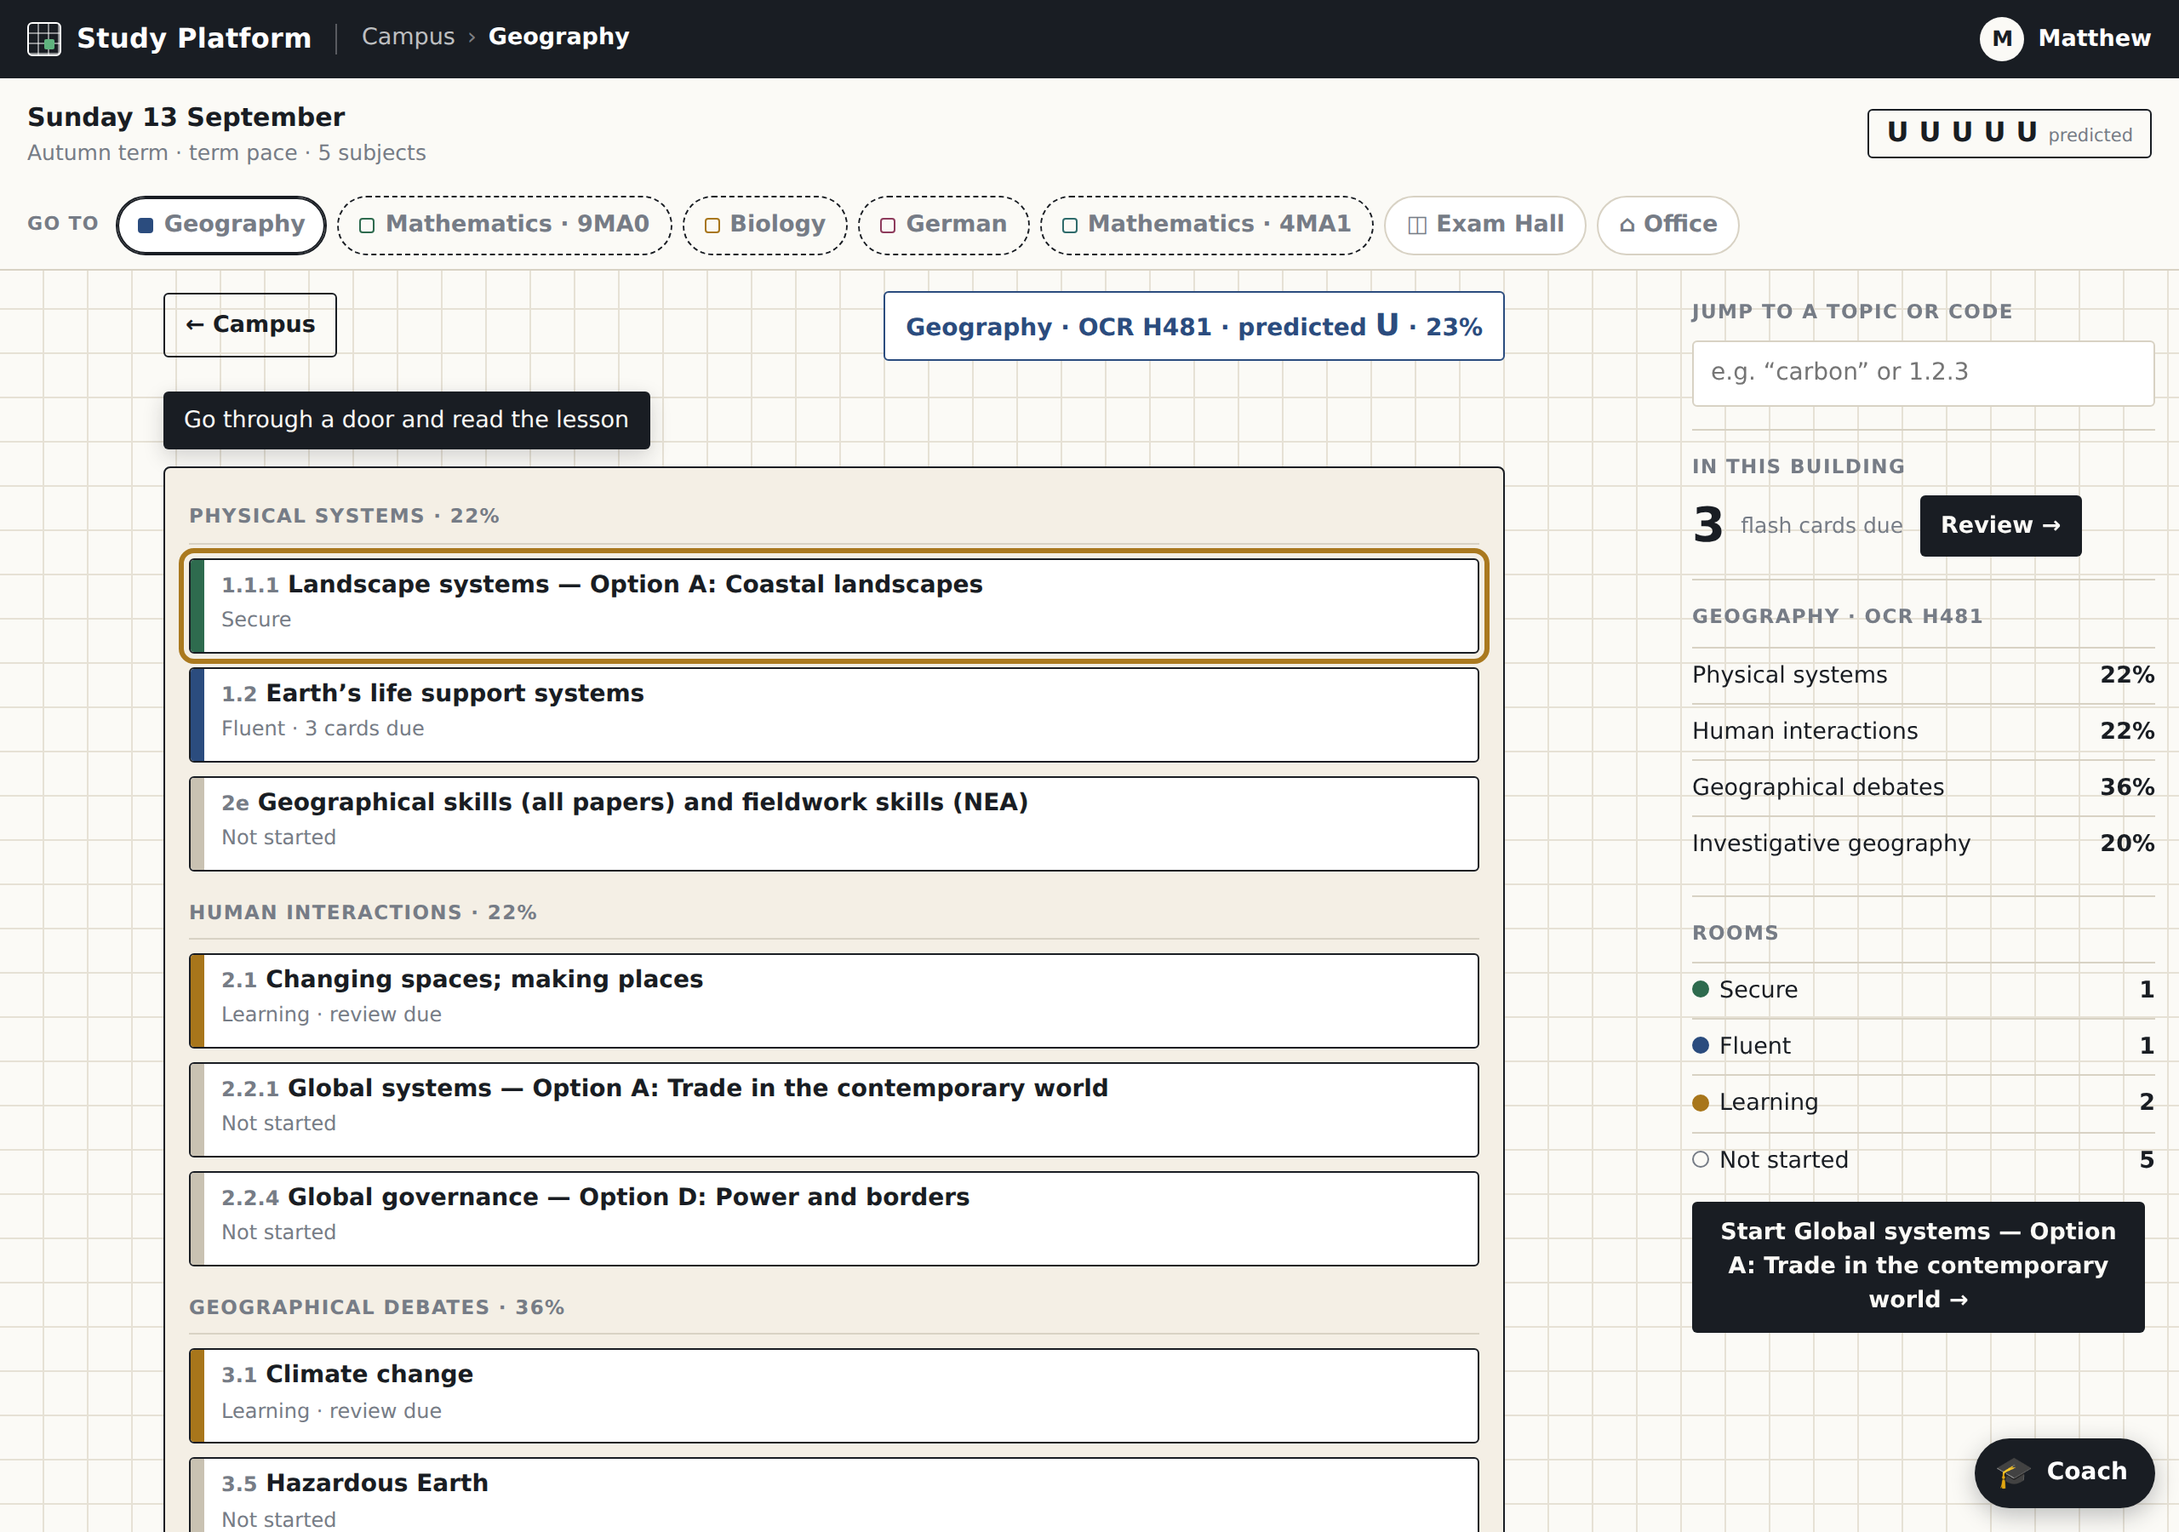
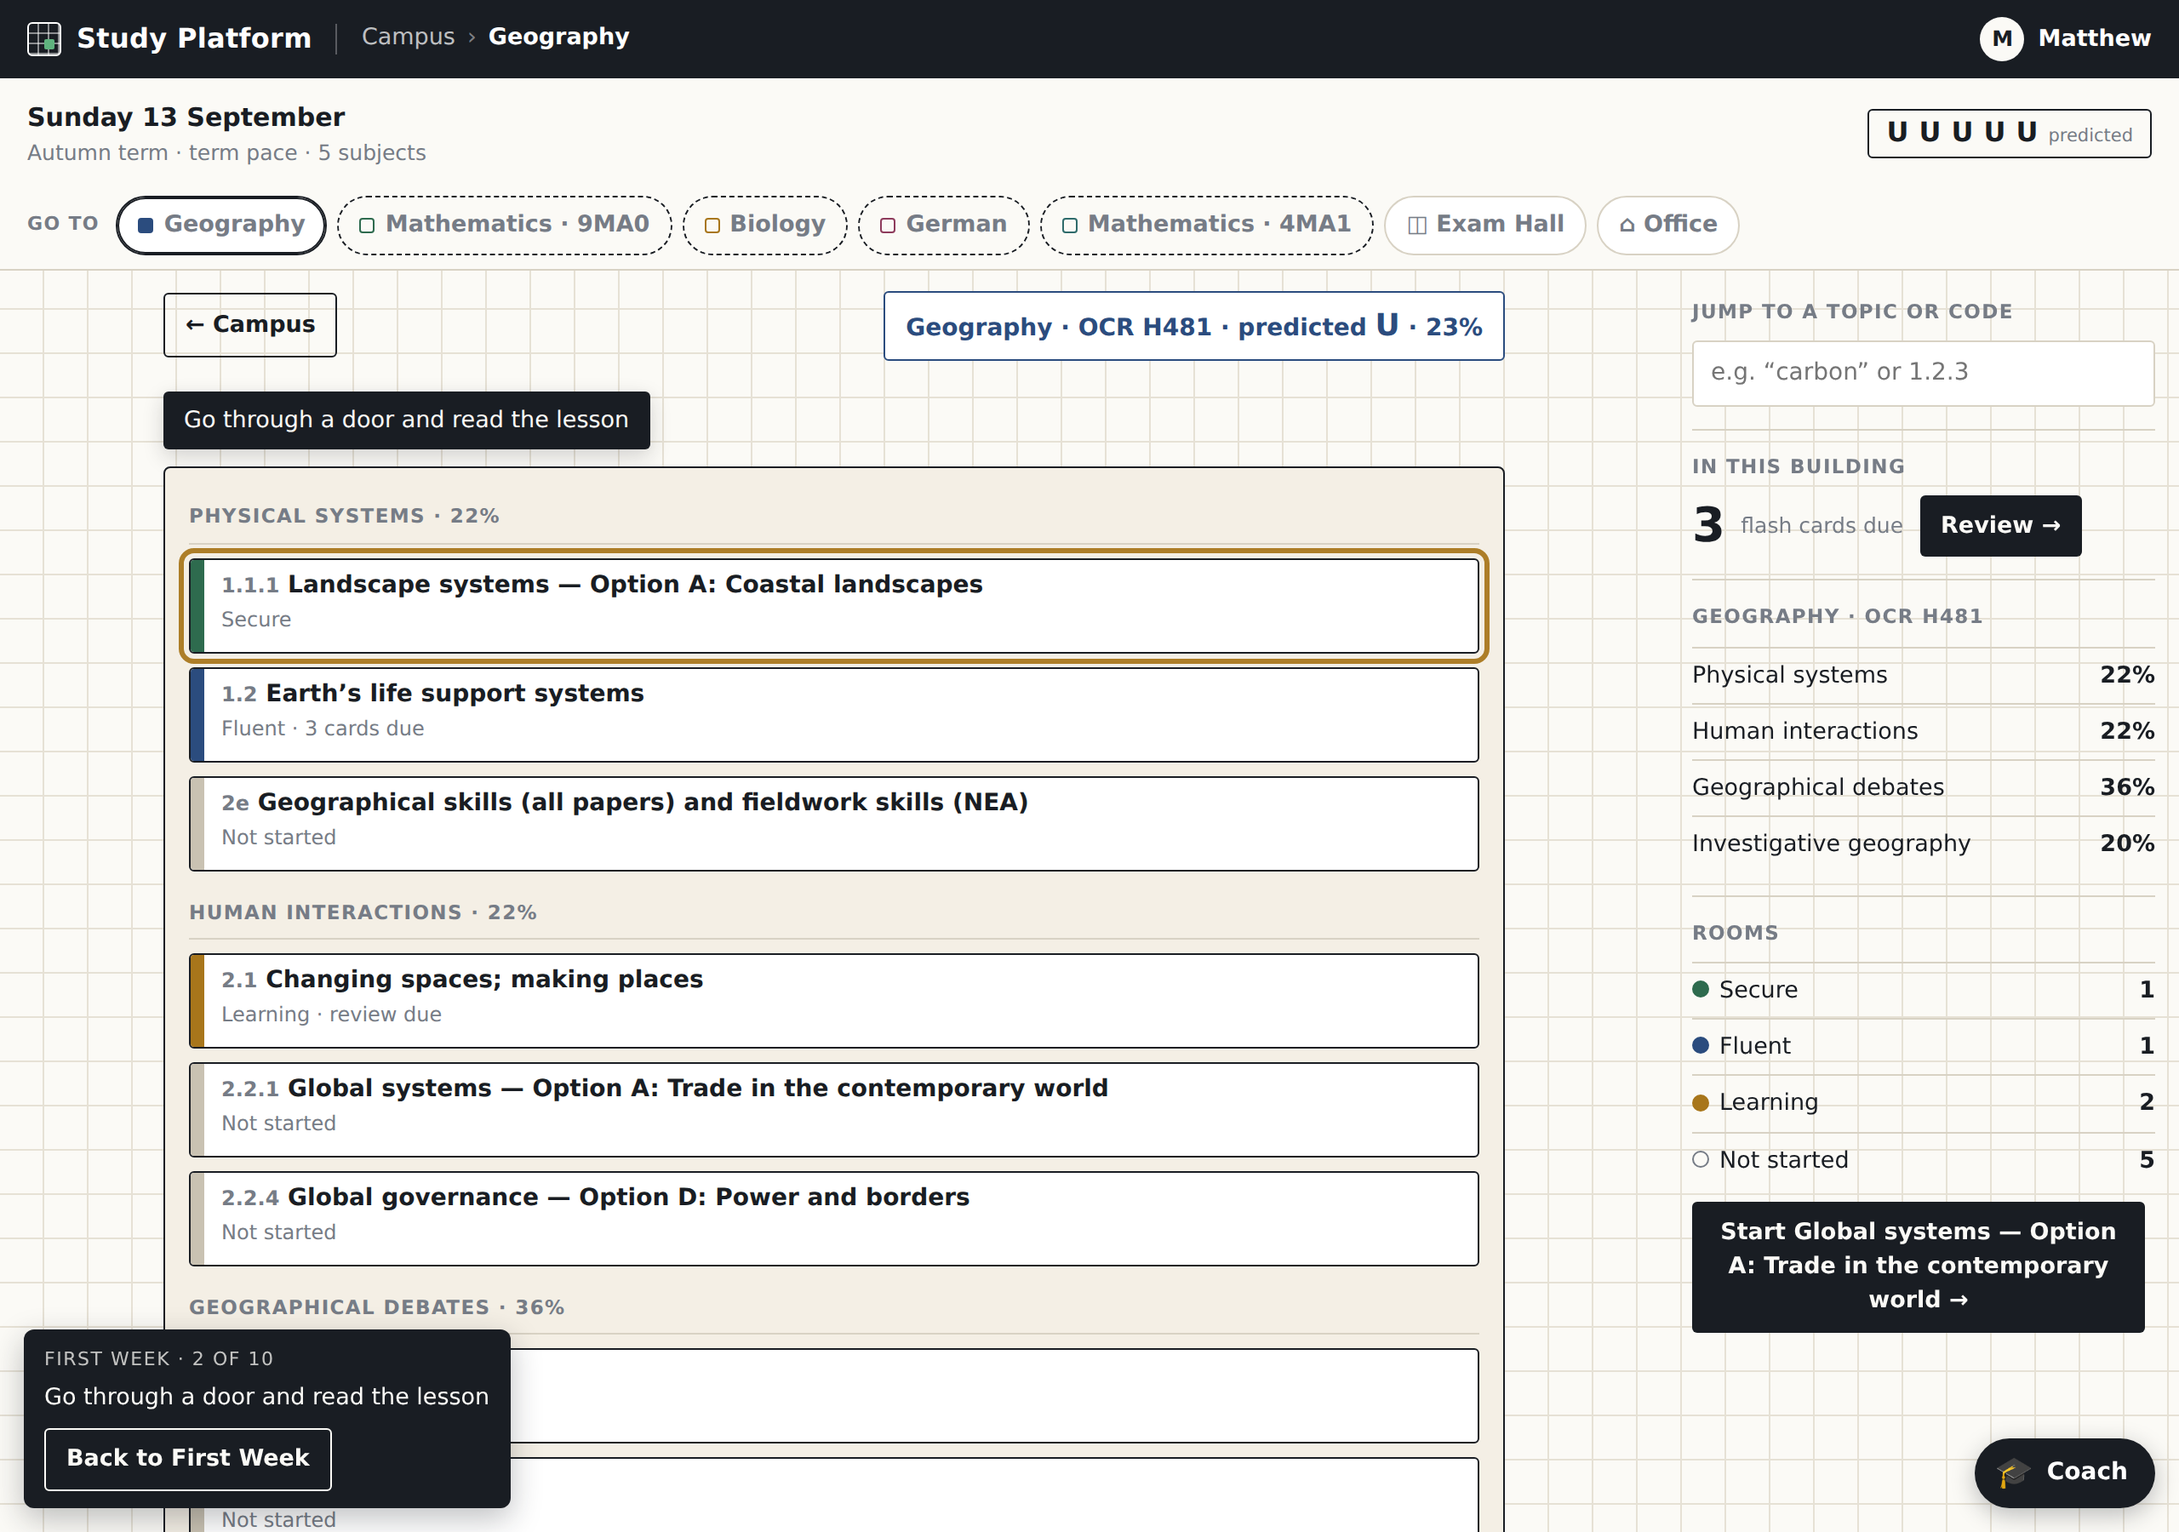
First week: a floating bar leads the student on and back
Show me now scrolls the spotlit thing into view and puts the cursor in
it when it is a box, so a step whose target sits below the fold (the
caretaker's box on a tablet) visibly reacts. A floating bar at the
bottom left stays up while a Show me is in progress: the step and its
line, then Done with the next step's own Show me, and always Back to
First Week, which returns to the card on the notice board.

Claude-Session: https://claude.ai/code/session_01Mh9bnPxQr2jGMgGjiwAVje

Changed region(s): [[0.0, 0.84, 0.25, 0.9956]]

diff --git a/src/template.html b/src/template.html
@@ -23,6 +23,7 @@
  </main>
  <aside class="wall hide" id="wall" aria-label="On the wall"></aside>
 </div>
+<div id="tourBack" class="tourbar hide" role="status" aria-live="polite"></div>
 <button id="coachFab" class="fab hide" type="button" aria-haspopup="dialog" aria-expanded="false" aria-controls="coachPanel"></button>
 <aside id="coachPanel" class="cpanel hide" role="dialog" aria-label="Coach" aria-modal="false"></aside>
 <div id="prompt" class="prompt hide" role="status" aria-live="polite"></div>
@@ -461,7 +462,7 @@ function tourStep(k){return TOUR_STEPS.find(x=>x.key===k);}
 function tourLine(k){const T=tour();return (T&&T.lines&&T.lines[k])||tourStep(k).text;}
 function tourDone(){const T=tour();return T?TOUR_STEPS.filter(x=>T.done[x.key]).length:0;}
 function tourNext(){const T=tour();return T?TOUR_STEPS.find(x=>!T.done[x.key])||null:null;}
-function tourTick(k){const T=tour();if(!tourActive()||T.done[k])return false;T.done[k]=TODAY;if(UI.spot&&UI.spot.key===k)UI.spot=null;save();return true;}
+function tourTick(k){const T=tour();if(!tourActive()||T.done[k])return false;T.done[k]=TODAY;if(UI.spot&&UI.spot.key===k)UI.spot=null;save();renderTourBack();return true;}
 function tourFirstRoom(){const sub=courseOrder()[0];const sp=sub&&specById(sub.specId);if(!sp)return null;const r=roomOrder(sp)[0];return r?{specId:sp.id,room:r}:null;}
 function tourNames(){return {student:S.setup.student,coach:coachName(),subjects:S.setup.subjects.map(sub=>{const sp=specById(sub.specId);if(!sp)return null;const r=roomOrder(sp)[0];const t=r?nodeTopic(r).topic:sp.topics[0];return {subject:sp.subject,short:shortName(sp),topic:(topicCode(t)?topicCode(t)+' ':'')+t.name};}).filter(Boolean)};}
 /* one small call after setup: the caretaker writes the ten lines in the student's own subjects; anything unusable keeps the fixed text */
@@ -471,7 +472,15 @@ function spotOn(k){return !!(UI.spot&&UI.spot.key===k);}
 function spotCap(k){return spotOn(k)?`<div class="spotcap" data-spotcap="${k}" role="status">${esc(tourLine(k))}</div>`:'';}
 function spotInto(html,k,marks){if(!spotOn(k))return html;for(const m of marks){if(m instanceof RegExp){const r=m.exec(html);if(r)return html.slice(0,r.index+r[0].length)+' data-spot="1"'+html.slice(r.index+r[0].length);continue;}const i=html.indexOf(m);if(i>=0)return html.slice(0,i)+m+' data-spot="1"'+html.slice(i+m.length);}return html;}
 function spotCheck(){const p=UI.spot;if(!p)return;if(view!==p.view||(p.corridor&&UI.room)||(p.room&&UI.room!==p.room)||(p.station&&UI.station!==p.station))UI.spot=null;}
-function tourShow(k){if(!tour())return;const fr=tourFirstRoom();UI.spot=null;
+/* after Show me: bring the spotlit thing on screen, and put the cursor in it if it is a box */
+function spotReveal(){setTimeout(()=>{try{const el=document.querySelector('[data-spot]');if(!el)return;if(el.scrollIntoView)el.scrollIntoView({block:'center',behavior:'smooth'});if(el.tagName==='INPUT'&&el.focus)el.focus({preventScroll:true});}catch(e){}},80);}
+/* the floating bar while a Show me is in progress: the step, then Done with the next step, and always the way back to the card */
+function renderTourBack(){const el=document.getElementById('tourBack');if(!el)return;const k=UI.tourTrail;const T=tour();if(!k||!T||T.hidden||!S||!tourStep(k)){el.classList.add('hide');el.innerHTML='';return;}
+  el.classList.remove('hide');const done=!!T.done[k];const nx=done?tourNext():null;const n=TOUR_STEPS.findIndex(x=>x.key===k)+1;
+  el.innerHTML=done?`<span class="tb-done">✓ Done</span><span class="tb-next">${nx?`Next: ${esc(tourLine(nx.key))}`:'You’ve seen everything.'}</span><div class="row tb-row">${nx?`<button class="act small" data-show="${nx.key}">Show me →</button>`:''}<button class="act ghost small" id="tourBackGo">Back to First Week</button></div>`
+  :`<span class="tb-step">First week · ${n} of ${TOUR_STEPS.length}</span><span class="tb-next">${esc(tourLine(k))}</span><div class="row tb-row"><button class="act ghost small" id="tourBackGo">Back to First Week</button></div>`;}
+function tourShow(k){if(!tour()||!tourStep(k))return;const fr=tourFirstRoom();UI.spot=null;UI.tourTrail=k;const done=tourShowGo(k,fr);renderTourBack();spotReveal();return done;}
+function tourShowGo(k,fr){
   if(k==='building'||k==='caretaker'){UI.room=null;go('campus');UI.spot={key:k,view:'campus'};renderCampus();return;}
   if(k==='lesson'){if(!fr)return;UI.subject=fr.specId;UI.room=null;go('rooms');UI.spot={key:k,view:'rooms',corridor:true};renderRooms();return;}
   if(k==='cards'||k==='question'||k==='exit'||k==='coach'){if(!fr)return;const st=k==='question'?'practise':k;openRoom(fr.room,st);UI.spot={key:k,view:'rooms',room:fr.room,station:st};renderRooms();if(k==='coach')renderCoachPanel();return;}
@@ -832,7 +841,7 @@ async function loadAdminTodo(){if(!isAdmin()||ADMIN_TODO!==null)return;ADMIN_TOD
 function wallView(){return !!S&&['rooms','exam','prog'].includes(view);}
 function statusView(){return !!S&&['campus','today','rooms','exam','prog','office'].includes(view);}
 /* the wall beside the centre: what the right rail used to carry — this room, this building, the board's conventions, the pattern */
-function renderRails(){applySupport();renderPrompt();if(UI.coachOpen)renderCoachPanel();const on=wallView();try{if(document.body&&document.body.classList)document.body.classList.toggle('wall-on',on);}catch(e){}
+function renderRails(){applySupport();renderPrompt();renderTourBack();if(UI.coachOpen)renderCoachPanel();const on=wallView();try{if(document.body&&document.body.classList)document.body.classList.toggle('wall-on',on);}catch(e){}
   const R=document.getElementById('wall');if(!R)return;
   if(!on){R.innerHTML='';R.classList.add('hide');renderStatus();return;}
   R.classList.remove('hide');renderWall(R);renderStatus();}
@@ -1238,8 +1247,9 @@ document.addEventListener('click',async e=>{let t=e.target;noteActivity();
   const bl=t.closest('[data-bldg]');if(bl){UI.subject=bl.dataset.bldg;UI.room=null;go('rooms');renderRooms();return;}
   const bv=t.closest('[data-bldg-view]');if(bv){go(bv.dataset.bldgView);if(bv.dataset.bldgView==='office')renderOffice();return;}
   {const sh=t.closest('[data-show]');if(sh){tourShow(sh.dataset.show);return;}}
-  if(t.closest('[data-tour-hide]')){S.tour.hidden=true;UI.spot=null;await save();renderCampus();return;}
-  if(t.id==='tourRestart'){const lines=S.tour&&S.tour.lines||null;S.tour=newTour();S.tour.lines=lines;UI.spot=null;UI.room=null;await save();go('campus');renderCampus();tourWrite();return;}
+  if(t.id==='tourBackGo'){UI.tourTrail=null;UI.spot=null;UI.room=null;go('campus');renderCampus();renderTourBack();setTimeout(()=>{try{const c=document.querySelector('#board [data-tour]');if(c&&c.scrollIntoView)c.scrollIntoView({block:'start',behavior:'smooth'});}catch(e){}},80);return;}
+  if(t.closest('[data-tour-hide]')){S.tour.hidden=true;UI.spot=null;UI.tourTrail=null;await save();renderCampus();renderTourBack();return;}
+  if(t.id==='tourRestart'){const lines=S.tour&&S.tour.lines||null;S.tour=newTour();S.tour.lines=lines;UI.spot=null;UI.tourTrail=null;UI.room=null;await save();go('campus');renderCampus();renderTourBack();tourWrite();return;}
   if(t.id==='backCampus'){UI.room=null;go('campus');renderCampus();return;}
   if(t.id==='askGo'){await askCaretaker(document.getElementById('askIn').value);return;}
   if(t.id==='voiceTry'){const tv=tutorVoice();const v=pickVoice();readText(`This is ${tv?tutorVoiceName(tv):v?v.name:'the voice'}. It will read the page to you, one sentence at a time.`);return;}

diff --git a/tests/app.test.js b/tests/app.test.js
@@ -160,6 +160,13 @@ const click=async s=>L.click({target:T(s)});const change=async s=>L.change({targ
  await click({dataset:{show:'coach'}});ok('W7 Show me on step 7 opens the room on the coach with the Ask button spotlit',G.view==='rooms'&&G.UI.station==='coach'&&G.UI.coachOpen===true&&/id="coachGo" data-spot="1"/.test(reg['coachPanel'].innerHTML)&&/data-spotcap="coach"/.test(reg['coachPanel'].innerHTML),reg['coachPanel'].innerHTML.slice(0,200));
  G.UI.coachOpen=false;await click({dataset:{show:'office'}});const OF=()=>reg['v-office'].innerHTML;ok('W7 Show me on step 10 opens the Office with the Support panel spotlit',G.view==='office'&&/id="supportPanel" data-spot="1"/.test(OF())&&/data-spotcap="office"/.test(OF()));
  await click({dataset:{show:'exam'}});ok('W7 Show me on step 8 opens the Exam Hall, which ticks on opening, so nothing is spotlit',G.view==='exam'&&T0().exam===G.TODAY&&!G.UI.spot);
+ /* the floating bar: the way back, and the way on */
+ const TB=()=>reg['tourBack'];G.S.tour=Object.assign(G.newTour(),{lines:G.S.tour.lines});G.UI.tourTrail=null;G.go('campus');G.renderAll();ok('W14 no bar until a Show me is pressed',TB().innerHTML==='');
+ await click({dataset:{show:'lesson'}});ok('W14 Show me raises the floating bar with the step, its line and Back to First Week',/First week · 2 of 10/.test(TB().innerHTML)&&/read the lesson/.test(TB().innerHTML)&&/id="tourBackGo"/.test(TB().innerHTML)&&!/Done/.test(TB().innerHTML)&&G.UI.tourTrail==='lesson',TB().innerHTML);
+ G.openRoom(firstGeo,'lesson');ok('W14 the tick turns the bar into Done with the next step and its own Show me',T0().lesson===G.TODAY&&/✓ Done/.test(TB().innerHTML)&&/Next: Ask the caretaker/.test(TB().innerHTML)&&/data-show="caretaker"/.test(TB().innerHTML)&&/id="tourBackGo"/.test(TB().innerHTML),TB().innerHTML);
+ await click({dataset:{show:'caretaker'}});ok('W14 Show me from the bar moves the trail on to the next step',G.view==='campus'&&G.UI.tourTrail==='caretaker'&&/id="askIn" data-spot="1"/.test(CV0())&&/First week · 3 of 10/.test(TB().innerHTML));
+ await click({id:'tourBackGo'});ok('W14 Back to First Week returns to the campus card and drops the bar',G.view==='campus'&&G.UI.tourTrail===null&&TB().innerHTML===''&&!G.UI.spot&&/data-tour="1"/.test(CV0()));
+ await click({dataset:{show:'cards'}});await click({dataset:{tourHide:'1'}});ok('W14 hiding the card drops the bar too',TB().innerHTML===''&&G.UI.tourTrail===null);G.S.tour.hidden=false;
  /* hide, restart, nudge */
  G.go('campus');G.renderCampus();await click({dataset:{tourHide:'1'}});ok('W9 ✕ hides the card',G.S.tour.hidden===true&&!/data-tour="1"/.test(CV0()));
  G.go('office');G.renderOffice();ok('W9 the Office offers Show me around',/id="tourRestart"/.test(OF()));

diff --git a/scripts/visual-proof.js b/scripts/visual-proof.js
@@ -177,7 +177,10 @@ const server = http.createServer((req, res) => {
   await snap(page, '31-show-me-door', 'Show me on “Go through a door and read the lesson”: the corridor with the first door spotlit in amber and the caretaker’s one-line caption above it');
   await page.click('#v-rooms .door[data-spot]');
   await page.waitForFunction(() => !document.querySelector('[data-spot]') && /This room/.test(document.querySelector('#wall').textContent), null, { timeout: 10000 });
-  await page.click('#brand'); await page.waitForSelector('#v-campus .board .fw[data-tour]');
+  must(/✓ Done/.test(await page.locator('#tourBack').textContent()) && (await page.locator('#tourBack [data-show="caretaker"]').count()) === 1 && (await page.locator('#tourBack #tourBackGo').count()) === 1 && (await page.locator('#tourBack').isVisible()), 'the floating bar says Done, offers the next step with its own Show me, and the way back to the card');
+  await snap(page, '33-first-week-bar', 'In the room the Show me led to: the step is done, so the floating bar at the bottom left says Done, names the next step with its own Show me, and always offers Back to First Week');
+  await page.click('#tourBackGo'); await page.waitForSelector('#v-campus .board .fw[data-tour]');
+  must(!(await page.locator('#tourBack').isVisible()), 'Back to First Week drops the bar');
   must(/First week · 2 of 10/.test(await page.locator('#v-campus .board .fw').textContent()) && (await page.locator('#v-campus .board .fwlist li.done').count()) === 2, 'opening the building and the door ticked steps 1 and 2 by themselves; the spotlight is gone');
   await snap(page, '32-first-week-ticked', 'Back on the campus: the First Week card has ticked the two steps the student really did, and the next one is marked');
   await page.click('#v-campus [data-cards]');

diff --git a/src/styles.css b/src/styles.css
@@ -367,3 +367,10 @@ svg [data-spot],g[data-spot]{outline:none;animation:spotglow 1.6s ease-in-out in
 .campusart .spotcap{display:block;max-width:none;margin:4px 0 8px}
 body.calm [data-spot],body.calm svg [data-spot]{animation:none}body.calm .spotcap{box-shadow:none}
 @media (prefers-reduced-motion:reduce){[data-spot],svg [data-spot]{animation:none}}
+/* ---- the floating first-week bar: where you are in the walkthrough, and the way back to the card ---- */
+.tourbar{position:fixed;left:12px;right:12px;bottom:calc(66px + env(safe-area-inset-bottom));z-index:31;background:var(--ink);color:var(--paper);border-radius:6px;padding:10px 12px;display:flex;flex-direction:column;gap:6px;font-size:13.5px;line-height:1.4;box-shadow:0 6px 18px rgba(25,29,35,.28)}
+.tourbar.hide{display:none}body.status-on .tourbar{bottom:calc(96px + env(safe-area-inset-bottom))}
+.tourbar .tb-step{font-size:11px;letter-spacing:.07em;text-transform:uppercase;opacity:.75}.tourbar .tb-done{font-weight:700;color:#9AD3B0}.tourbar .tb-next{font-weight:500}
+.tourbar .tb-row{gap:8px;margin-top:2px}.tourbar .tb-row>*{flex:0 0 auto}.tourbar .act{margin:0}.tourbar .act.ghost{border-color:var(--paper);color:var(--paper);background:transparent}.tourbar .act.ghost:hover{background:rgba(255,255,255,.1)}
+@media (min-width:760px){.tourbar{left:14px;right:auto;bottom:14px;max-width:380px}body.status-on .tourbar{bottom:14px}body.wall-on .tourbar{bottom:14px}}
+body.calm .tourbar{box-shadow:none}
